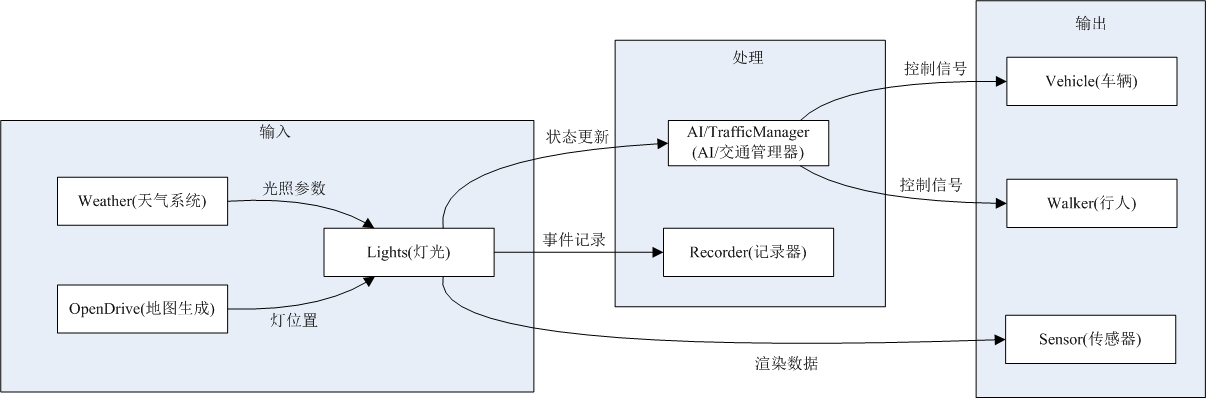
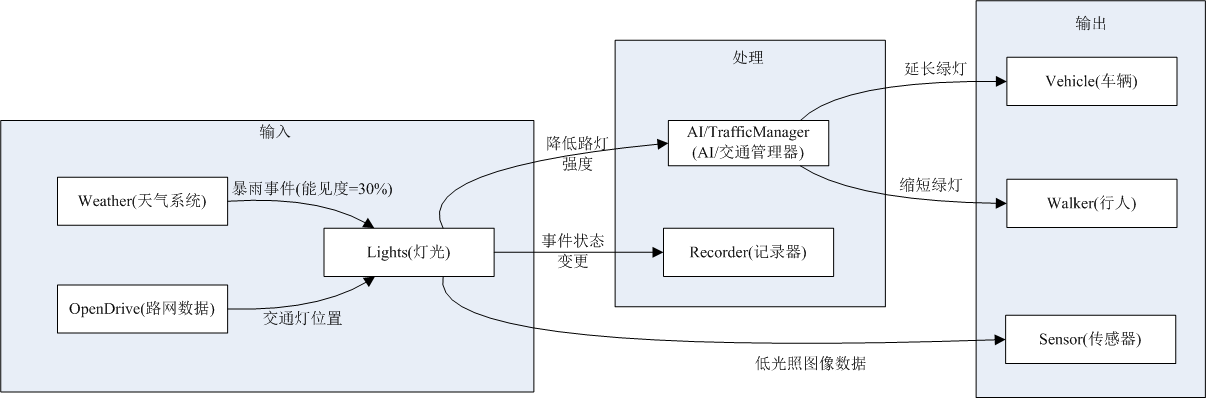
对内容进行了调整以及增加了png格式图片。 (#178)
* 修正了部分在“人车模拟器”中的显示错误。

* 更新了部分目录格式显示

* 增加了目录1中的详细内容。

* 对正文内容中“2.技术实现”部分进行了更改并做了部分合并。

* 做了目录更新

* 加了灯光模块使用到的部分图。比如模块之间的关系。

* 对显示问题做了部分格式修改。

* 加入了链接。

* 上传了图片并对之前的做了更改。

* 增加了图片插入。

* 对内容进行了调整以及增加了png格式图片。

* 修改了图片。

diff --git a/docs/modules/Lights.md b/docs/modules/Lights.md
@@ -10,8 +10,11 @@
        - [1.2.2 组件核心功能](#122-组件核心功能)
     - [1.3 灯光模块](#13-灯光模块)
  - [**2. 模块关系总览**](#2-模块关系总览)
-
-
+    - [2.1 灯光模块(Light)与其他模块关系总览](#21-灯光模块(Light)与其他模块关系总览)
+    - [2.2 模块控制关系](#22-模块控制关系)
+       - [2.2.1 交通信号控制流程](#221-交通信号控制流程)
+       - [2.2.2 天气影响灯光](#222-天气影响灯光)
+   - [2.3 场景示例图](#33-场景示例图)
  - [**3. 技术实现**](#3-技术实现)
     - [3.1 核心类函数](#31-核心类函数)
     - [3.2 灯光注册与注销](#32-灯光注册与注销)
@@ -54,9 +57,28 @@
 ### 1.3 灯光模块 <a id="13-灯光模块"></a>
 灯光模块在 carla 中负责模拟现实世界中的各类光源（如交通灯、路灯、车辆灯等），并确保它们在虚拟环境中的行为符合物理规律和交通规则。
 通过红绿灯管理车辆和行人的通行权；动态调整灯光颜色、强度以匹配昼夜或天气变化；为摄像头、激光雷达提供光照条件（如夜间低光、雨雾散射）；支持自动驾驶算法在不同终端获取一致的灯光状态。
-## 2. 模块关系<a id="2-模块关系"></a>
- - 展示灯光模块与其他核心模块的全局依赖关系，帮助 lights 在 carla 系统中的定位。
+## 2. 模块控制关系<a id="2-模块控制关系"></a>
+### 2.1 灯光模块(Light)与其他模块关系总览<a id="21-灯光模块(Light)与其他模块关系总览"></a>
+ - 展示灯光模块与其他核心模块的全局依赖关系，帮助 lights 在 carla 系统中的定位。快速了解模块间上下游关系，设计新功能时避免遗漏依赖。
+ - 核心枢纽：灯光模块直接控制交通信号，间接影响车辆、行人、传感器等模块。
 > ![light model relationship](./img/lights/light_model_relationship.png)
+### 2.2 关键交互图<a id="22-关键交互图"></a>
+#### 2.2.1 交通信号控制流程 <a id="221-交通信号控制流程"></a>
+ - 描述信号灯状态变化时，系统如何协调车辆和行人的行为。例如，在测试场景中交通管理器强制设置红灯，灯光子系统通知所有车辆和行人，车辆触发刹车逻辑，行人停止移动。
+ - 应用场景：调试交通灯同步问题；验证自动驾驶算法对红灯的响应等。
+> ![light model relationship](./img/lights/light_model_relationship.png)
+ - 流程顺序：交通管理器 → 灯光模块 → 车辆/行人响应。
+#### 2.2.2 天气影响灯光 <a id="222-天气影响灯光"></a>
+ - 展示天气变化如何通过灯光模块传递到自动驾驶系统。例如，天气系统发送暴雨事件；灯光模块降低路灯强度；传感器捕获低光照数据；自动驾驶 AI 决策降速。
+ - 应用场景：模拟极端天气下的传感器性能；测试车辆在低能见度下的行为。
+
+> ![light change](./img/lights/light_change.png)
+ - 数据流：天气事件 → 灯光强度调整 → 传感器数据 → 车辆控制。
+
+### 2.3 场景示例图<a id="23-场景示例图"></a>
+ - 场景：模拟暴雨天气下的交通系统响应。
+ - 天气系统触发能见度下降；交通管理器延长绿灯时间以缓解拥堵；传感器数据用于算法性能分析。
+> ![data flow](./img/lights/data_flow.png)
 
 ## 3. 技术实现<a id="3-技术实现"></a>
 `UCarlaLight`继承自虚幻引擎的 `ULightComponent` 类，并扩展了 carla 特有的功能。
